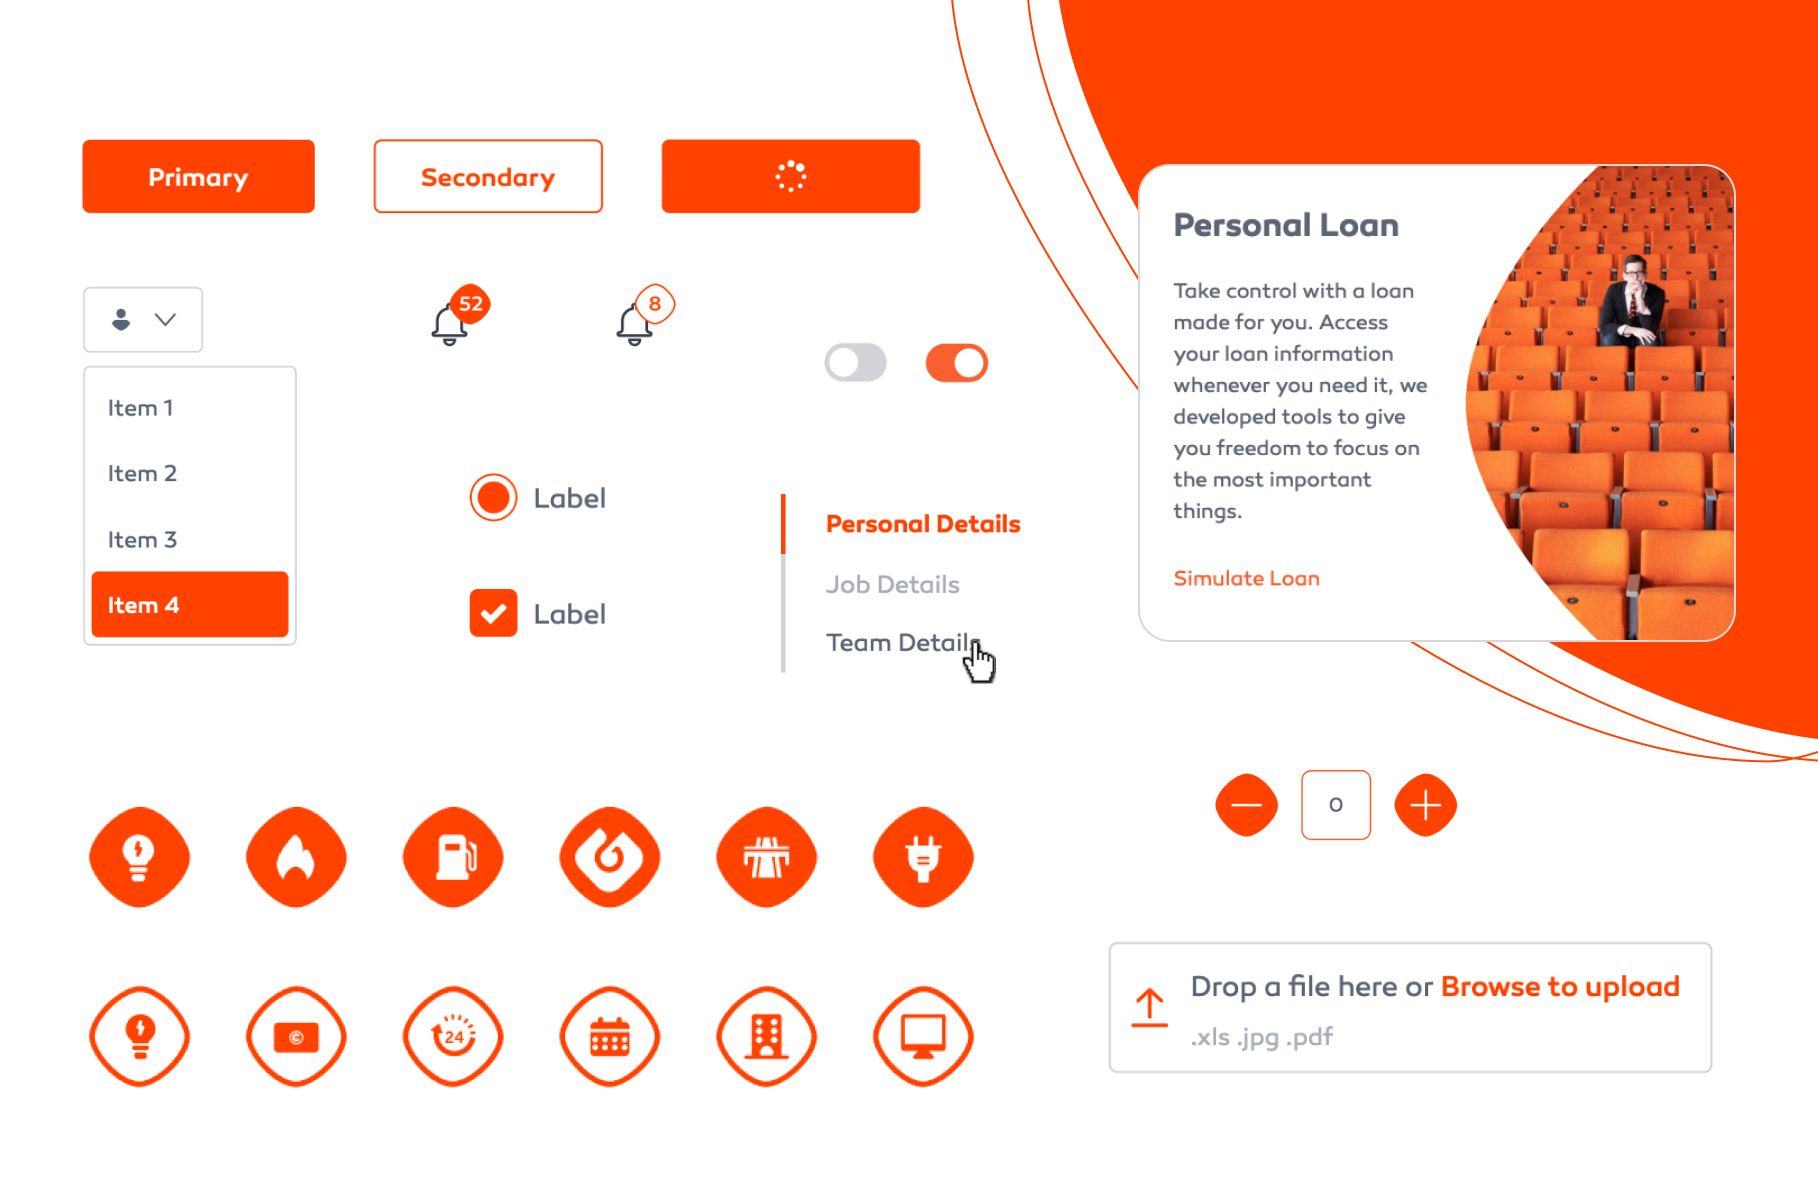
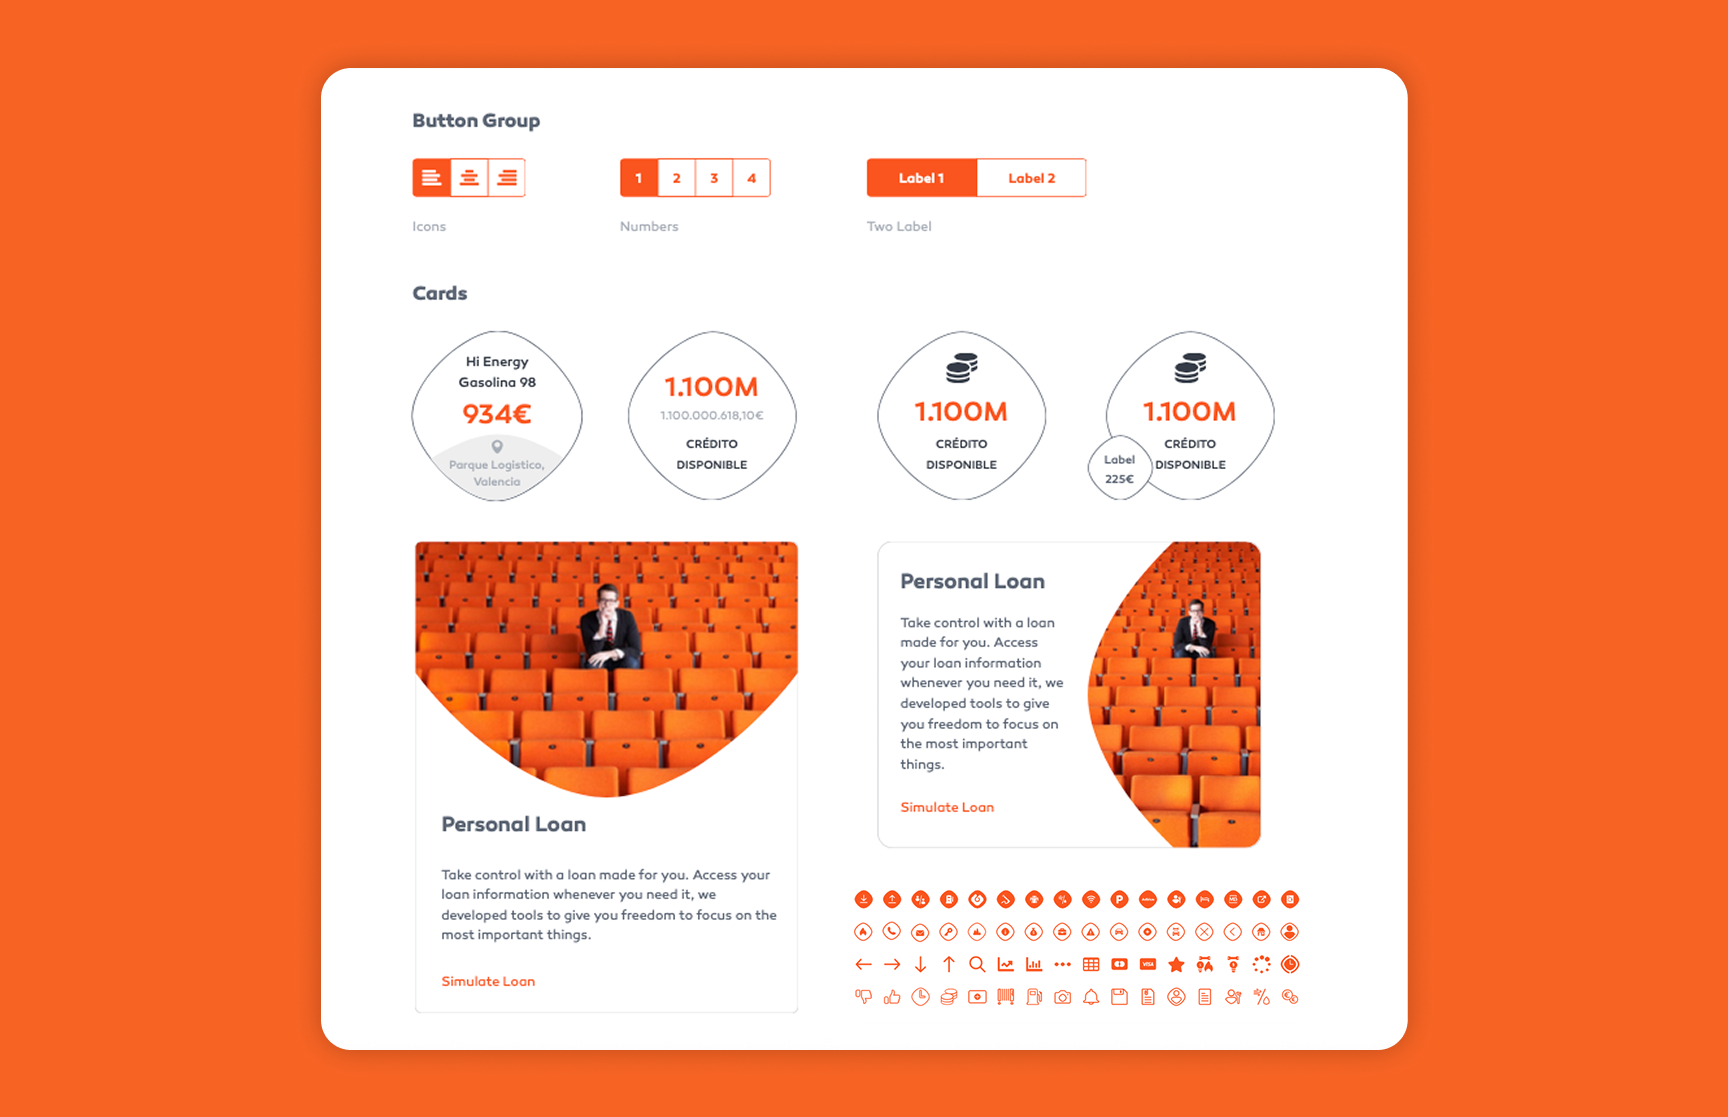
Add files via upload

diff --git a/index.html b/index.html
@@ -109,7 +109,7 @@
 
   <article class="project fade-up">
     <div class="project-visual">
-      <img src="assets/galp/project-card.jpg" alt="Galp iconography and styleguide" loading="lazy">
+      <img src="assets/galp/project-card.png" alt="Galp iconography and styleguide" loading="lazy">
     </div>
     <div class="project-content">
       <span class="project-number">02 / Galp</span>
@@ -139,7 +139,7 @@
 
   <article class="project fade-up">
     <div class="project-visual">
-      <img src="https://picsum.photos/1600/900" alt="Placeholder project banner image" loading="lazy">
+      <img src="assets/marte/project-card.png" alt="Marte task management" loading="lazy">
     </div>
     <div class="project-content">
       <span class="project-number">04 / Wisout</span>